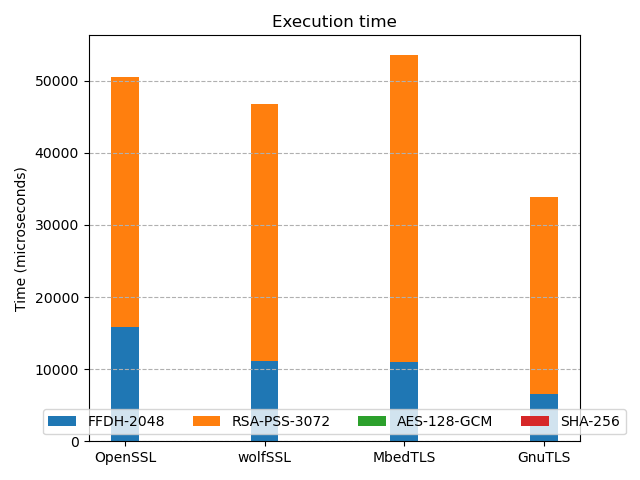
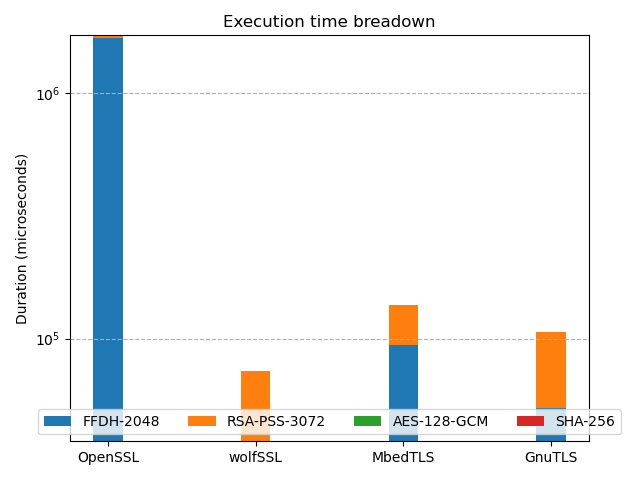
fg

diff --git a/plots/time_ffdh2048_rsa3072_aes128gcm_sha256.py b/plots/time_ffdh2048_rsa3072_aes128gcm_sha256.py
@@ -62,7 +62,7 @@ col_labels = algos
 fig, ax = plt.subplots()
 ax.axis('off')  # Hide the axes
 table = plt.table(cellText=data, colLabels=col_labels, rowLabels=row_labels, loc='center')
-table.scale(1, 2) # Adjust table size
+table.scale(1, 1.5) # Adjust table size
 
 table.auto_set_font_size(False) # Disable autosizing
 # table.set_fontsize(12) # Set font size
